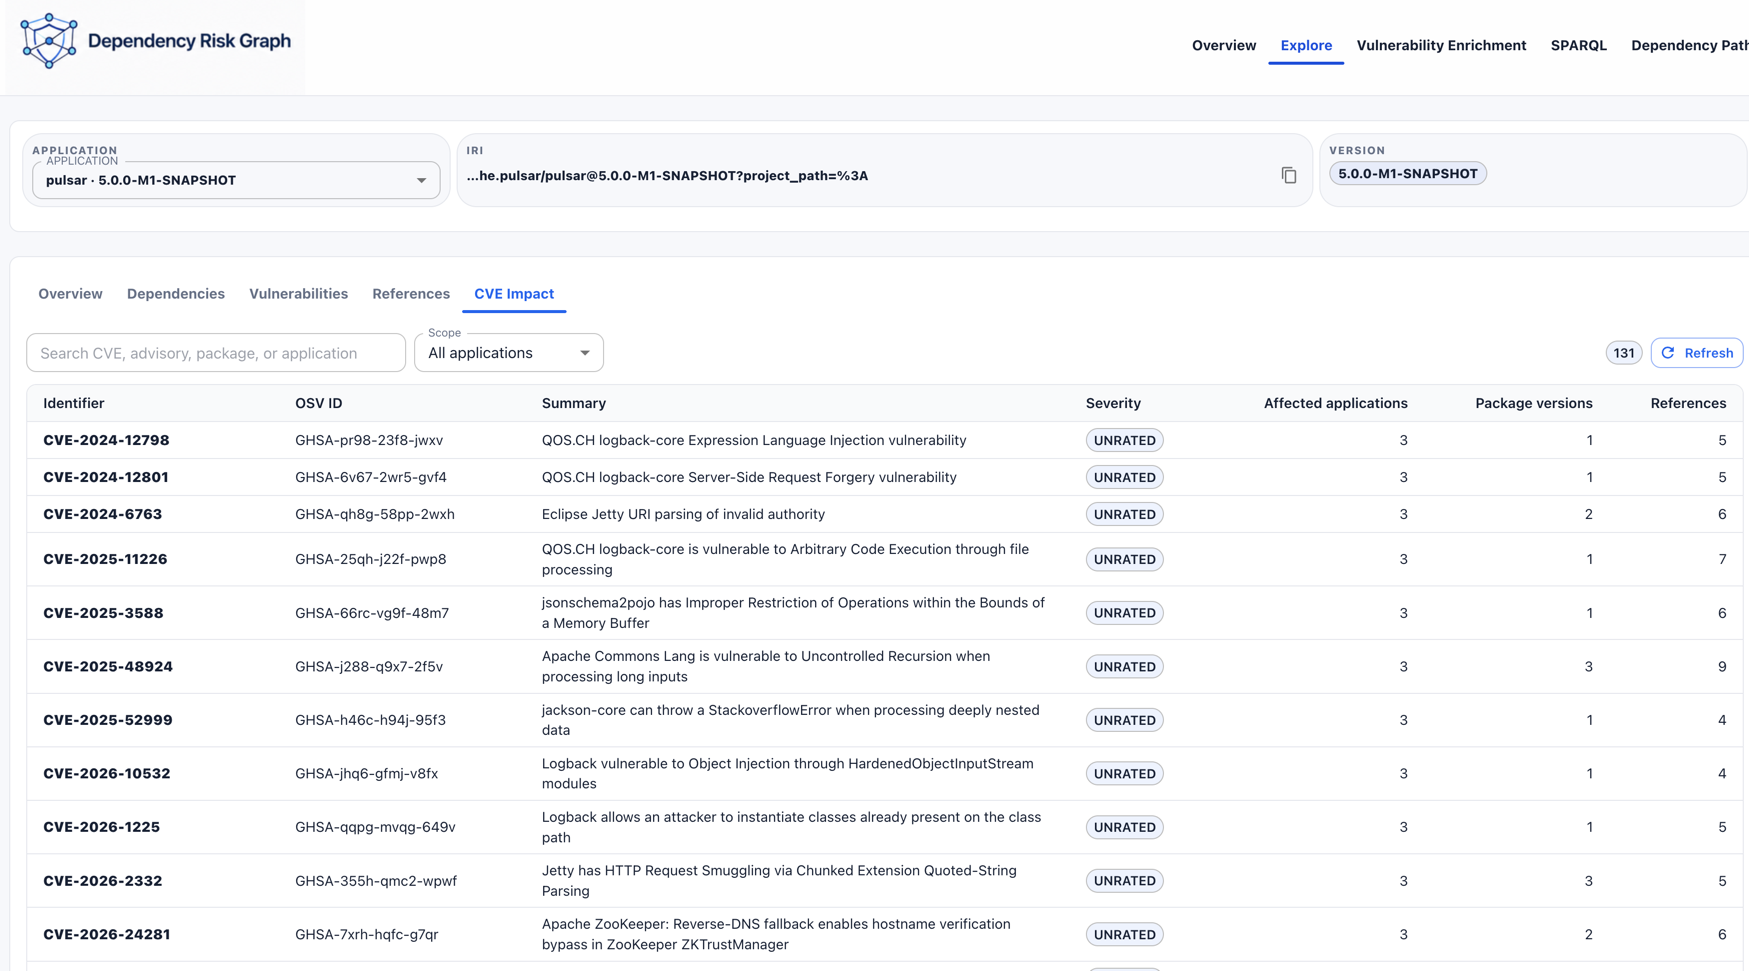
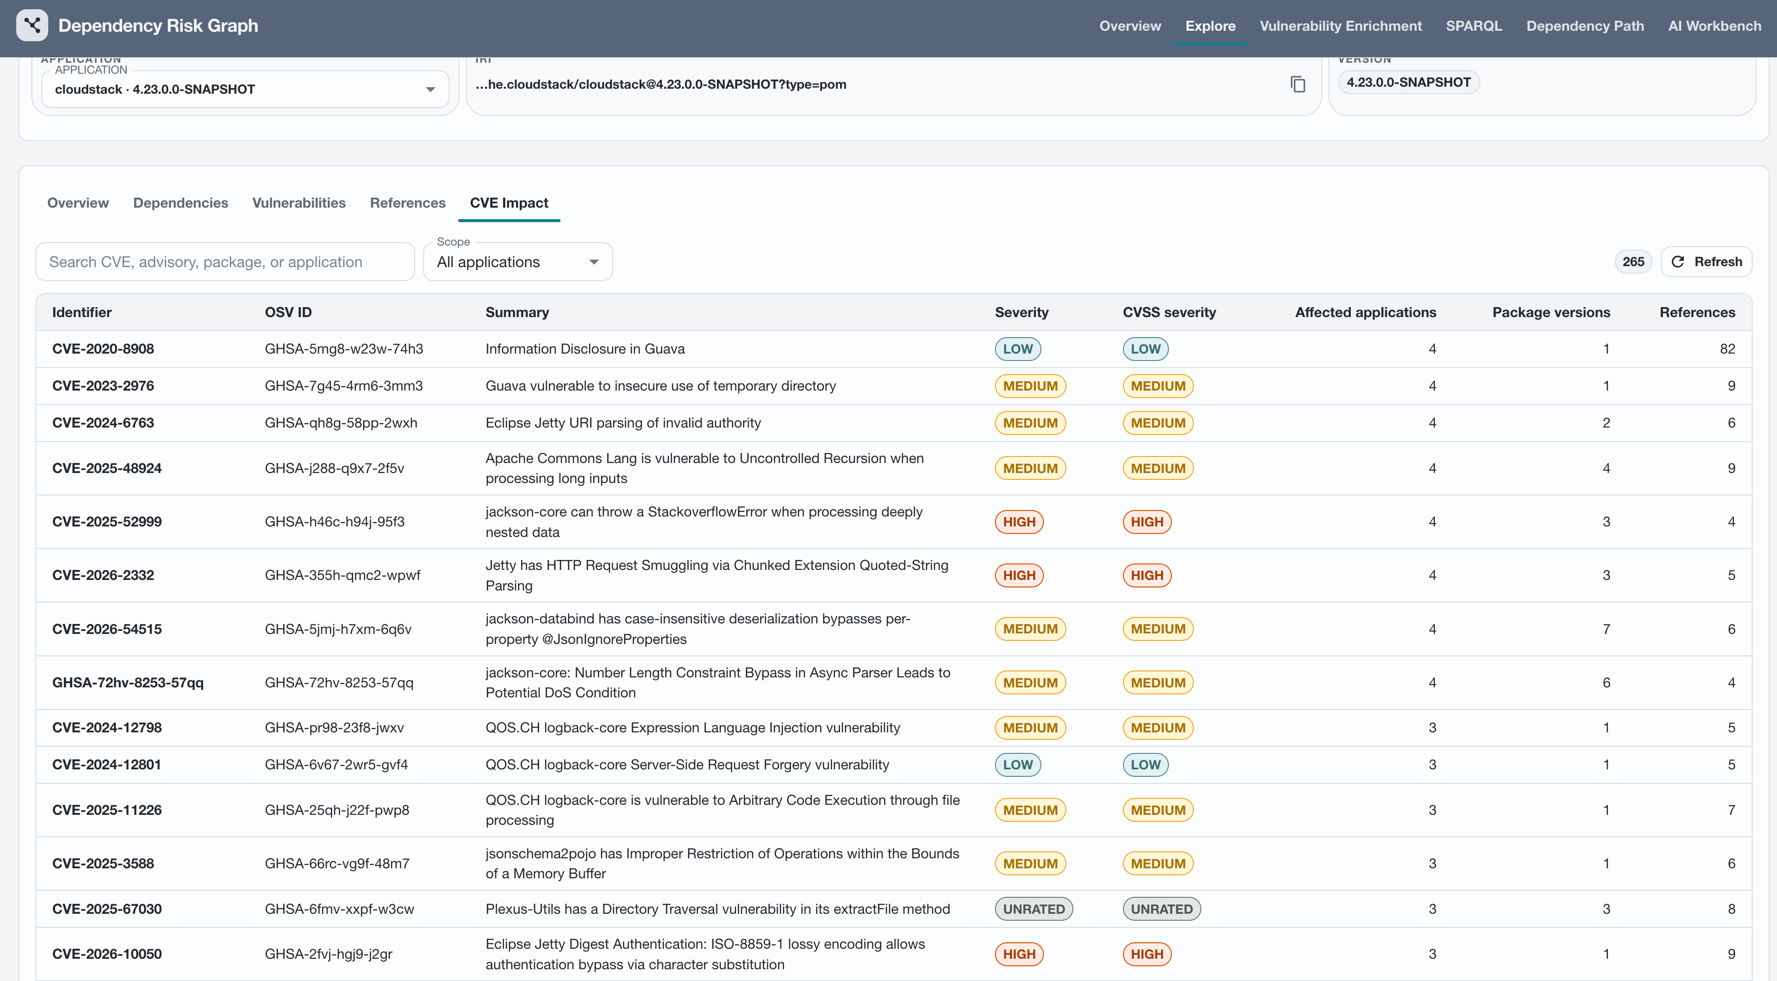
++ README.md

diff --git a/src/main/frontend/src/features/explore/CveImpactView.tsx b/src/main/frontend/src/features/explore/CveImpactView.tsx
@@ -8,17 +8,19 @@ import {
   Button,
   Chip,
   CircularProgress,
-  Divider,
+  Dialog,
+  DialogActions,
+  DialogContent,
+  DialogTitle,
   FormControl,
+  IconButton,
   InputLabel,
   Link,
   MenuItem,
-  IconButton,
   Paper,
   Popover,
   Select,
   Stack,
-  Tab,
   Table,
   TableBody,
   TableCell,
@@ -26,7 +28,6 @@ import {
   TableHead,
   TablePagination,
   TableRow,
-  Tabs,
   TextField,
   Typography
 } from '@mui/material';
@@ -227,7 +228,7 @@ function ImpactDetail({
   onScopeChange: (scope: CveImpactScope) => void;
 }) {
   const [selectedExposureId, setSelectedExposureId] = useState<string | null>(null);
-  const [detailTab, setDetailTab] = useState(0);
+  const [detailDialogTab, setDetailDialogTab] = useState<number | null>(null);
   const [selectedNode, setSelectedNode] = useState<ImpactGraphNode | null>(null);
   const [selectedNodeAnchor, setSelectedNodeAnchor] = useState<Element | null>(null);
   if (loading) return <CenteredProgress label="Loading CVE impact graph" />;
@@ -237,10 +238,12 @@ function ImpactDetail({
 
   return (
     <Stack spacing={2}>
-      <Stack direction={{ xs: 'column', md: 'row' }} justifyContent="space-between" spacing={1}>
-        <Stack direction="row" spacing={1.25} alignItems="center" useFlexGap flexWrap="wrap">
-          <Button size="small" startIcon={<ArrowBackOutlinedIcon />} onClick={onBack}>Back to CVE list</Button>
-        </Stack>
+      <Stack direction="row" spacing={1} alignItems="center" useFlexGap flexWrap="wrap">
+        <Button size="small" startIcon={<ArrowBackOutlinedIcon />} onClick={onBack}>Back to CVE list</Button>
+        <Button size="small" variant="outlined" onClick={() => setDetailDialogTab(0)}>Details</Button>
+        <Button size="small" variant="outlined" onClick={() => setDetailDialogTab(1)}>CVSS Vector</Button>
+        <Button size="small" variant="outlined" onClick={() => setDetailDialogTab(2)}>References</Button>
+        <Box sx={{ flexGrow: 1 }} />
         <ScopeSelect scope={scope} onChange={onScopeChange} />
       </Stack>
 
@@ -252,30 +255,38 @@ function ImpactDetail({
           onSelectNode={(node, anchor) => {
             setSelectedNode(node);
             setSelectedNodeAnchor(anchor);
-            if (node.nodeType === 'VULNERABILITY') setDetailTab(0);
           }}
         />
       </Box>
+
       <Popover
         open={Boolean(selectedNode && selectedNodeAnchor)}
         anchorEl={selectedNodeAnchor}
         onClose={() => setSelectedNodeAnchor(null)}
         anchorOrigin={{ vertical: 'center', horizontal: 'right' }}
         transformOrigin={{ vertical: 'center', horizontal: 'left' }}
-        slotProps={{ paper: { sx: { ml: 1, maxWidth: 460, width: 'min(460px, calc(100vw - 32px))', maxHeight: '80vh' } } }}
+        slotProps={{ paper: { sx: { ml: 1, width: 'min(420px, calc(100vw - 32px))' } } }}
       >
-        <Box aria-label="Selected node details" sx={{ position: 'relative' }}>
+        <Box aria-label="Selected node details" sx={{ position: 'relative', p: 1.5, pr: 5 }}>
           <IconButton
             size="small"
             aria-label="Close selected node details"
             onClick={() => setSelectedNodeAnchor(null)}
-            sx={{ position: 'absolute', top: 6, right: 6, zIndex: 2 }}
+            sx={{ position: 'absolute', top: 6, right: 6 }}
           >
             <CloseOutlinedIcon fontSize="small" />
           </IconButton>
-          <ImpactDetailsPanel detail={detail} selectedNode={selectedNode} tab={detailTab} onTabChange={setDetailTab} />
+          {selectedNode ? <SelectedNodeHeader node={selectedNode} /> : null}
         </Box>
       </Popover>
+
+      <Dialog open={detailDialogTab !== null} onClose={() => setDetailDialogTab(null)} fullWidth maxWidth="md">
+        <DialogTitle>{detailDialogTitle(detailDialogTab)}</DialogTitle>
+        <DialogContent dividers>
+          <ImpactDetailsContent detail={detail} tab={detailDialogTab ?? 0} />
+        </DialogContent>
+        <DialogActions><Button onClick={() => setDetailDialogTab(null)}>Close</Button></DialogActions>
+      </Dialog>
 
       <Paper variant="outlined">
         <Stack direction="row" justifyContent="space-between" alignItems="center" sx={{ p: 1.5 }}>
@@ -306,11 +317,8 @@ function isResolvedPath(status: string): boolean {
   return status === 'AFFECTED_PATH_RESOLVED' || status === 'AVAILABLE';
 }
 
-function ImpactDetailsPanel({ detail, selectedNode, tab, onTabChange }: { detail: CveImpactDetailResponse; selectedNode: ImpactGraphNode | null; tab: number; onTabChange: (value: number) => void }) {
-  return <Paper variant="outlined" sx={{ p: 1.5, minHeight: 480, overflow: 'auto' }}>
-    {selectedNode ? <SelectedNodeHeader node={selectedNode} /> : null}
-    <Tabs value={tab} onChange={(_, value: number) => onTabChange(value)} variant="fullWidth"><Tab label="Details" /><Tab label="CVSS" /><Tab label="References" /></Tabs>
-    <Divider sx={{ mb: 1.5 }} />
+function ImpactDetailsContent({ detail, tab }: { detail: CveImpactDetailResponse; tab: number }) {
+  return <Box sx={{ py: 0.5 }}>
     {tab === 0 ? <Stack spacing={1.5}>
       <Detail label="Summary" value={detail.vulnerability.summary} />
       <AdvisoryDetails value={detail.vulnerability.details} />
@@ -340,7 +348,13 @@ function ImpactDetailsPanel({ detail, selectedNode, tab, onTabChange }: { detail
       </Box>
     }) : <Typography color="text.secondary">No CVSS assessment listed.</Typography>}</Stack> : null}
     {tab === 2 ? <Stack spacing={1}>{detail.referenceUrls.length ? detail.referenceUrls.map((url) => <ExternalReference key={url} value={url} />) : <Typography color="text.secondary">No references listed.</Typography>}</Stack> : null}
-  </Paper>;
+  </Box>;
+}
+
+function detailDialogTitle(tab: number | null): string {
+  if (tab === 1) return 'CVSS vector';
+  if (tab === 2) return 'References';
+  return 'Vulnerability details';
 }
 
 function CvssVectorSummary({ cvss }: { cvss: PresentedCvss }) {

diff --git a/src/main/frontend/src/features/explore/CveImpactView.test.tsx b/src/main/frontend/src/features/explore/CveImpactView.test.tsx
@@ -55,7 +55,7 @@ describe('CveImpactView', () => {
     expect(tree.querySelector('path[data-edge-relationship="FIXED_IN"]')).toBeInTheDocument();
   });
 
-  it('selects tree nodes into the existing details panel', async () => {
+  it('opens node-specific details from the graph', async () => {
     renderView();
     await userEvent.click(screen.getByText('CVE-2026-1000'));
     await screen.findByLabelText('CVE impact and fixes tree');
@@ -83,8 +83,7 @@ describe('CveImpactView', () => {
     renderView();
     await userEvent.click(screen.getByText('CVE-2026-1000'));
     await screen.findByLabelText('CVE impact and fixes tree');
-    await userEvent.click(screen.getByRole('button', { name: 'CVE-2026-1000' }));
-    await userEvent.click(screen.getByRole('tab', { name: 'References' }));
+    await userEvent.click(screen.getByRole('button', { name: 'References' }));
     const link = screen.getByRole('link', { name: 'NVD' });
     expect(link).toHaveAttribute('target', '_blank');
     expect(link).toHaveAttribute('rel', 'noopener noreferrer');
@@ -96,8 +95,7 @@ describe('CveImpactView', () => {
     renderView();
     await userEvent.click(screen.getByText('CVE-2026-1000'));
     await screen.findByLabelText('CVE impact and fixes tree');
-    await userEvent.click(screen.getByRole('button', { name: 'CVE-2026-1000' }));
-    await userEvent.click(screen.getByRole('tab', { name: 'CVSS' }));
+    await userEvent.click(screen.getByRole('button', { name: 'CVSS Vector' }));
 
     expect(screen.getByText('Base 9.8')).toBeInTheDocument();
     expect(screen.getAllByText('CRITICAL').length).toBeGreaterThan(0);
@@ -114,7 +112,7 @@ describe('CveImpactView', () => {
     renderView();
     await userEvent.click(screen.getByText('CVE-2026-1000'));
     await screen.findByLabelText('CVE impact and fixes tree');
-    await userEvent.click(screen.getByRole('button', { name: 'CVE-2026-1000' }));
+    await userEvent.click(screen.getByRole('button', { name: 'Details' }));
 
     expect(screen.getByText('Impact')).toBeInTheDocument();
     expect(screen.queryByText('## Impact')).not.toBeInTheDocument();

diff --git a/README.md b/README.md
@@ -37,6 +37,7 @@ The graph is the source of truth. Ingestion and enrichment write RDF; the Explor
 - [Development](#development)
 - [Technology Stack](#technology-stack)
 - [Project Structure](#project-structure)
+- [TODO / Next Steps](#todo--next-steps)
 - [Current Limitations](#current-limitations)
 - [License](#license)
 
@@ -282,7 +283,7 @@ References are stored as dedicated RDF resources. The UI groups them by advisory
 
 The initial CVE Impact view groups one vulnerability across selected or all applications.
 
-![Cross-application CVE impact list](docs/sample/cve-impact.png)
+![Cross-application CVE impact list](docs/sample/cve-impact-1.png)
 
 Selecting an advisory opens the focused application-to-package-to-vulnerability diagram. The diagram supports pan, zoom, fit view, layout reset, simplified/detailed modes, node selection, and exposure filtering.
 
@@ -607,6 +608,12 @@ src/main/frontend/src/
 docs/sample/                README screenshots
 data/tdb2/                  local embedded RDF dataset
 ```
+
+## TODO / Next Steps
+
+- [ ] Fix remaining build issues and keep the backend and frontend builds stable.
+- [ ] Complete and validate deterministic dependency-path discovery and visualization.
+- [ ] **In progress — GraphRAG:** add graph-grounded retrieval for CVE, application, dependency-path, and remediation context.
 
 ## Current Limitations
 